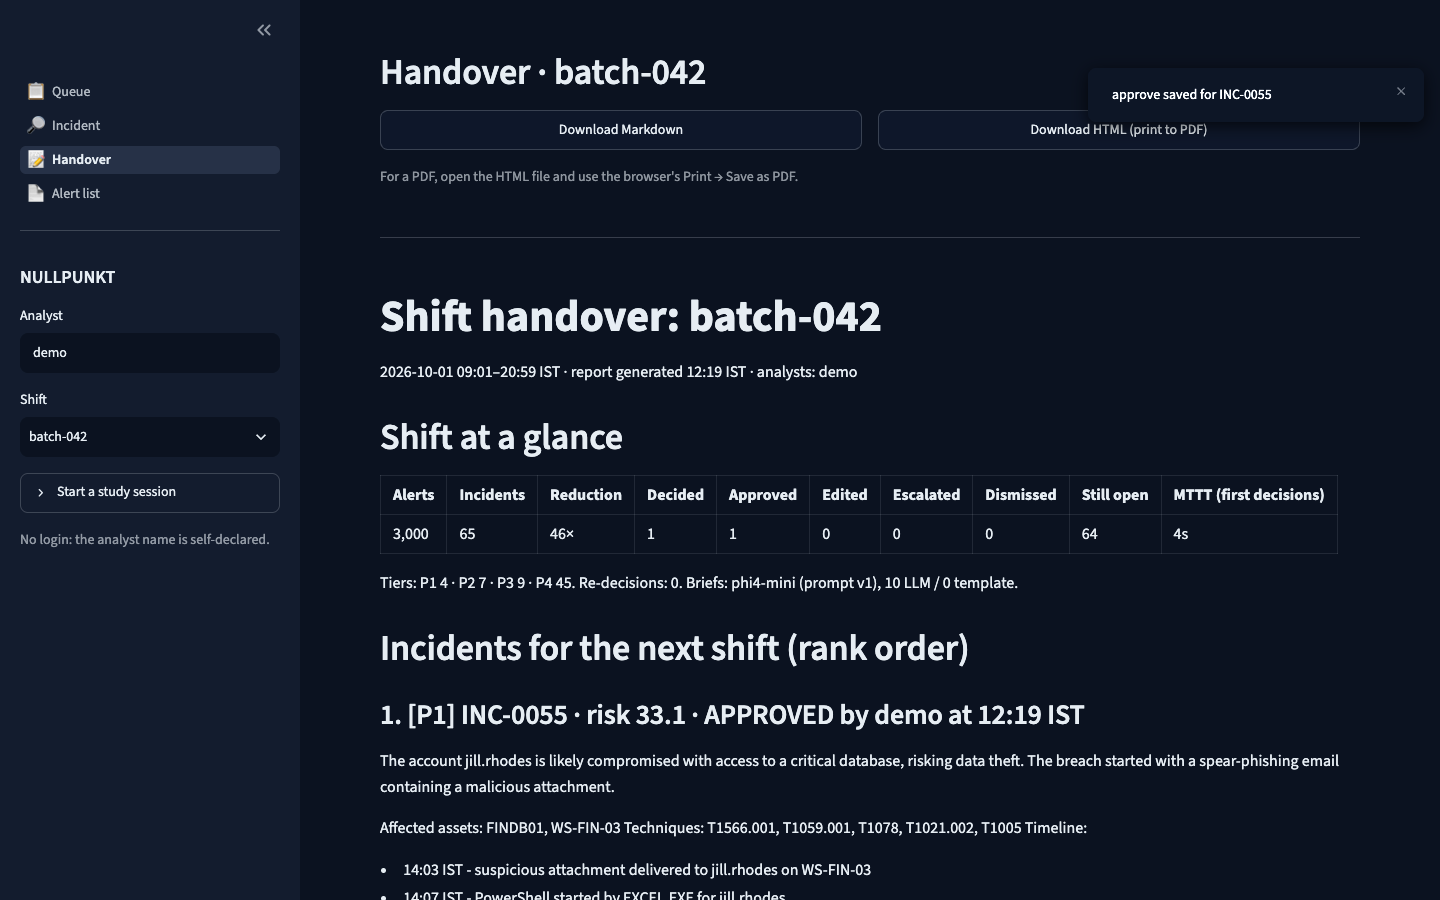
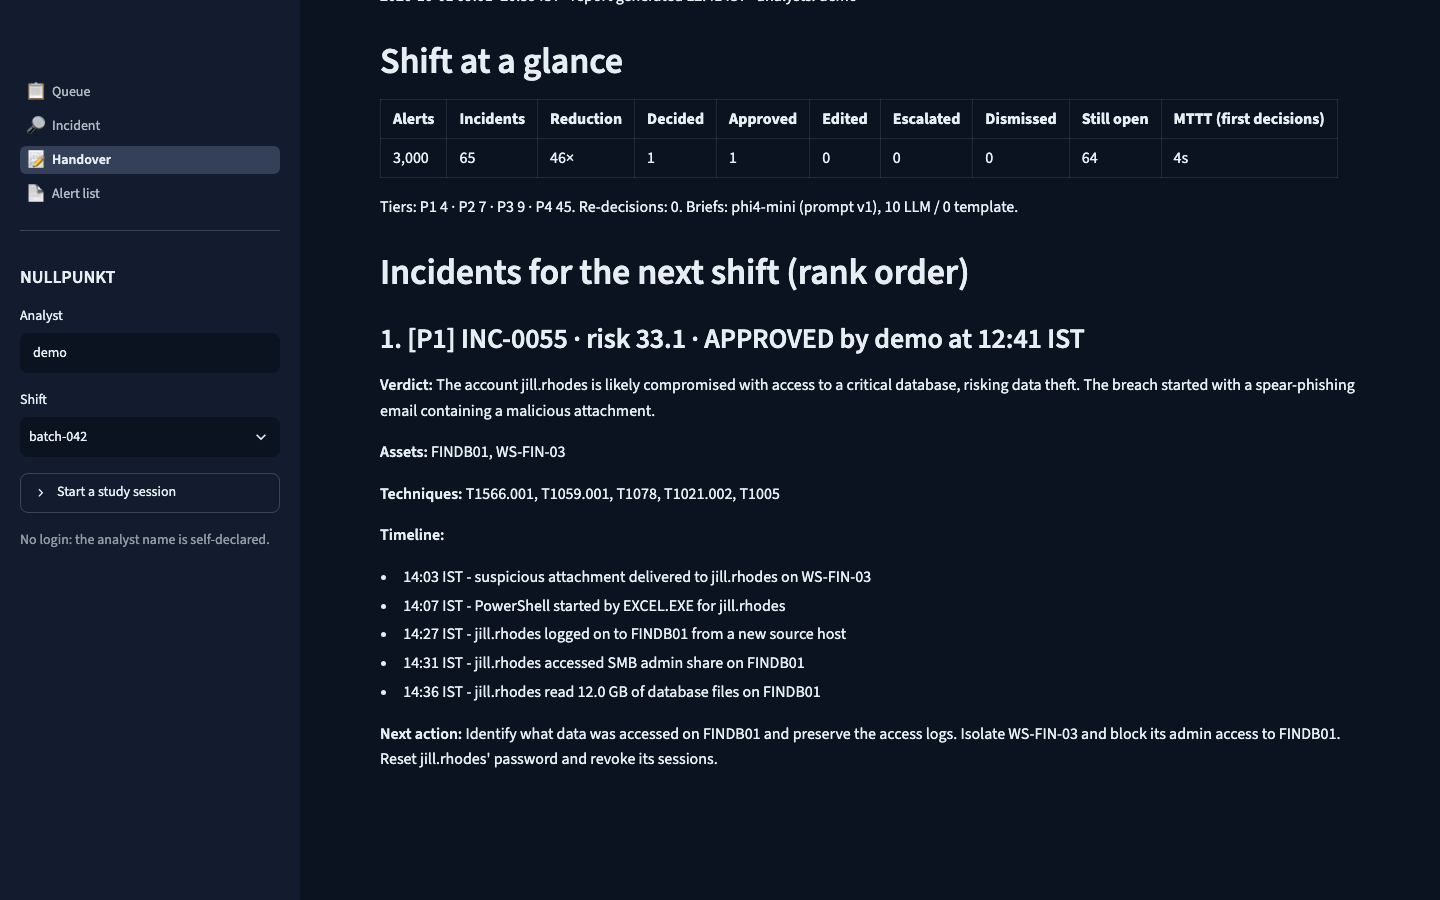
fix(app): readable handover layout and S × C label; docs: screenshots and deployment fixes

diff --git a/src/nullpunkt/app/report.py b/src/nullpunkt/app/report.py
@@ -14,8 +14,8 @@ from datetime import datetime
 from zoneinfo import ZoneInfo
 
 from nullpunkt.app.metrics import ShiftStats, format_duration, latest_decisions, shift_stats
-from nullpunkt.app.views import brief_as_text
-from nullpunkt.core.schema import DecisionAction
+from nullpunkt.app.views import brief_as_markdown
+from nullpunkt.core.schema import Brief, DecisionAction
 from nullpunkt.storage.repository import BatchInfo, DecisionRecord, Repository
 
 REPORTED = (DecisionAction.APPROVE, DecisionAction.EDIT, DecisionAction.ESCALATE)
@@ -35,7 +35,8 @@ class ReportItem:
     incident_id: str
     risk: float
     decision: DecisionRecord
-    brief_text: str
+    brief_text: str  # Markdown when ``brief`` is set, otherwise free text (an edit or the score)
+    brief: Brief | None = None  # the unedited brief, for structured rendering
 
 
 @dataclass(frozen=True)
@@ -60,13 +61,17 @@ def build_handover(repo: Repository, batch_id: str, scope: str | None = None) ->
         if decision is None or decision.action not in REPORTED:
             continue
         view = repo.incident(batch_id, row.incident_id, scope)
+        brief = None
         if decision.action is DecisionAction.EDIT and decision.edited_brief:
             text = decision.edited_brief
         elif view.brief is not None:
-            text = brief_as_text(view.brief.brief)
+            brief = view.brief.brief
+            text = brief_as_markdown(brief)
         else:
             text = view.incident.score.explanation if view.incident.score else ""
-        items.append(ReportItem(row.rank, row.tier, row.incident_id, row.risk, decision, text))
+        items.append(
+            ReportItem(row.rank, row.tier, row.incident_id, row.risk, decision, text, brief)
+        )
     brief_counts = repo.brief_sources(batch_id)
     repo.log("report", "report_exported", batch_id, payload={"items": len(items)})
     return Handover(batch, shift_stats(repo, batch_id, scope), items, repo.now(), brief_counts)
@@ -141,8 +146,18 @@ def to_markdown(h: Handover) -> str:
         lines += [f"### {_heading(h, item)}", ""]
         if item.decision.action is DecisionAction.ESCALATE and item.decision.notes:
             lines += [f"**Escalation note:** {item.decision.notes}", ""]
-        lines += [item.brief_text, ""]
+        lines += [item.brief_text if item.brief else _keep_line_breaks(item.brief_text), ""]
     return "\n".join(lines).rstrip() + "\n"
+
+
+def _keep_line_breaks(text: str) -> str:
+    """Free text (an analyst's edit) as Markdown that keeps its line breaks: Markdown would
+    otherwise join consecutive lines into one paragraph."""
+    lines = text.strip().splitlines()
+    return "\n".join(
+        line.rstrip() + ("  " if line.strip() and nxt.strip() else "")
+        for line, nxt in zip(lines, [*lines[1:], ""], strict=True)
+    )
 
 
 CSS = """
@@ -159,9 +174,23 @@ th { background: #f3f4f6; } .meta { color: #4b5563; }
 .P4 { background: #6b7280; }
 .note { background: #fef3c7; padding: .4rem .6rem; border-left: 4px solid #d97706; }
 pre { white-space: pre-wrap; font-family: inherit; margin: .3rem 0 0; }
+.item p { margin: .35rem 0; } .item ul { margin: .2rem 0 .4rem; }
 .item { break-inside: avoid; }
 @media print { body { margin: 0; max-width: none; } h2 { break-after: avoid; } }
 """
+
+
+def _brief_html(brief: Brief) -> str:
+    e = html.escape
+    summary = "<br>".join(e(line.strip()) for line in brief.summary.strip().splitlines())
+    timeline = "".join(f"<li>{e(entry)}</li>" for entry in brief.timeline)
+    return (
+        f"<p><strong>Verdict:</strong> {summary}</p>"
+        f"<p><strong>Assets:</strong> {e(', '.join(brief.affected_assets))}</p>"
+        f"<p><strong>Techniques:</strong> {e(', '.join(brief.techniques))}</p>"
+        f"<p><strong>Timeline:</strong></p><ul>{timeline}</ul>"
+        f"<p><strong>Next action:</strong> {e(brief.next_action)}</p>"
+    )
 
 
 def to_html(h: Handover) -> str:
@@ -195,6 +224,7 @@ def to_html(h: Handover) -> str:
         )
         if d.action is DecisionAction.ESCALATE and d.notes:
             parts.append(f"<p class='note'><strong>Escalation note:</strong> {e(d.notes)}</p>")
-        parts.append(f"<pre>{e(item.brief_text)}</pre></div>")
+        parts.append(_brief_html(item.brief) if item.brief else f"<pre>{e(item.brief_text)}</pre>")
+        parts.append("</div>")
     parts.append("</body></html>")
     return "".join(parts)

diff --git a/tests/unit/test_storage.py b/tests/unit/test_storage.py
@@ -390,11 +390,41 @@ def test_handover_lists_only_approved_edited_escalated_in_rank_order(repo, clock
     assert "**Escalation note:** IR <lead> & legal" in md
     assert "Analyst rewrite of the brief." in md
     assert q[1] not in md  # dismissed: counted, not listed
-    assert "Affected assets: FINDB01" in md  # final brief text for approved/escalated
+    assert "**Assets:** FINDB01" in md  # final brief text for approved/escalated
     html = to_html(h)
     assert html.startswith("<!doctype html>") and "@media print" in html
     assert "IR &lt;lead&gt; &amp; legal" in html and "<lead>" not in html
     assert [e["event"] for e in repo.audit(B)][-1] == "report_exported"
+
+
+def test_handover_puts_each_brief_field_on_its_own_line(repo, clock):
+    top = repo.queue(B)[0].incident_id
+    repo.open_incident(B, top, "jane")
+    clock.advance(30)
+    repo.record_decision(B, top, "jane", "approve")
+    item = build_handover(repo, B).items[0]
+    brief = item.brief
+    assert brief is not None
+    md = to_markdown(build_handover(repo, B))
+    lines = md.splitlines()
+    for label in ("Verdict", "Assets", "Techniques", "Timeline", "Next action"):
+        starts = [n for n, line in enumerate(lines) if line.startswith(f"**{label}:**")]
+        assert len(starts) == 1, label  # the label starts its own line, once
+        assert lines[starts[0] - 1] == "", label  # a paragraph of its own, not run together
+    timeline = lines.index("**Timeline:**")
+    entries = lines[timeline + 2 : timeline + 2 + len(brief.timeline)]
+    assert entries == [f"- {entry}" for entry in brief.timeline]  # a Markdown list
+    html = to_html(build_handover(repo, B))
+    assert "<p><strong>Assets:</strong> FINDB01" in html and "<ul><li>" in html
+
+
+def test_handover_keeps_line_breaks_of_an_edited_brief(repo, clock):
+    top = repo.queue(B)[0].incident_id
+    repo.open_incident(B, top, "jane")
+    clock.advance(30)
+    repo.record_decision(B, top, "jane", "edit", edited_brief="Line one.\nLine two.\n\nLine four.")
+    md = to_markdown(build_handover(repo, B))
+    assert "Line one.  \nLine two.\n\nLine four." in md  # hard break, then a new paragraph
 
 
 def test_handover_with_no_decisions(repo):

diff --git a/tests/unit/test_app_views.py b/tests/unit/test_app_views.py
@@ -5,6 +5,7 @@ import pytest
 from nullpunkt.app.metrics import format_duration
 from nullpunkt.app.views import (
     TIER_COLOURS,
+    brief_as_markdown,
     brief_as_text,
     evidence_rows,
     risk_bar_fraction,
@@ -83,6 +84,26 @@ def test_brief_as_text():
     assert brief_as_text(brief) == (
         "Line one.\nLine two.\n\nAffected assets: FINDB01\nTechniques: T1005\nTimeline:\n"
         "- 09:00 IST - x\nNext action: Do y."
+    )
+
+
+def test_brief_as_markdown():
+    brief = Brief(
+        summary="Line one.\nLine two.",
+        affected_assets=["FINDB01", "WS-FIN-03"],
+        techniques=["T1005"],
+        timeline=["09:00 IST - x", "09:05 IST - y"],
+        next_action="Do y.",
+        confidence="high",
+        generated_by="llm",
+        validated=True,
+    )
+    assert brief_as_markdown(brief) == (
+        "**Verdict:** Line one.  \nLine two.\n\n"
+        "**Assets:** FINDB01, WS-FIN-03\n\n"
+        "**Techniques:** T1005\n\n"
+        "**Timeline:**\n\n- 09:00 IST - x\n- 09:05 IST - y\n\n"
+        "**Next action:** Do y."
     )
 
 

diff --git a/src/nullpunkt/app/views.py b/src/nullpunkt/app/views.py
@@ -66,6 +66,23 @@ def brief_as_text(brief: Brief) -> str:
     return "\n".join(lines)
 
 
+BRIEF_LABELS = ("Verdict", "Assets", "Techniques", "Timeline", "Next action")
+
+
+def brief_as_markdown(brief: Brief) -> str:
+    """The brief for the handover: each field in its own paragraph with a bold label, the
+    timeline as a list. Markdown joins single newlines, so fields are separated by blank lines."""
+    summary = "  \n".join(line.strip() for line in brief.summary.strip().splitlines())
+    parts = [
+        f"**Verdict:** {summary}",
+        f"**Assets:** {', '.join(brief.affected_assets)}",
+        f"**Techniques:** {', '.join(brief.techniques)}",
+        "**Timeline:**\n\n" + "\n".join(f"- {entry}" for entry in brief.timeline),
+        f"**Next action:** {brief.next_action}",
+    ]
+    return "\n\n".join(parts)
+
+
 def evidence_rows(alerts: list, evidence_ids: set[str], tz: str) -> list[dict]:
     """Evidence alerts in time order; consecutive alerts with the same rule, host and user are
     one row with a count."""

diff --git a/app/pages/incident.py b/app/pages/incident.py
@@ -136,7 +136,15 @@ left, right = st.columns(2)
 with left:
     st.markdown("#### Score")
     s1, s2, s3, s4 = st.columns(4)
-    s1.metric("Severity × criticality", f"{score.severity_weight} × {score.asset_criticality}")
+    s1.metric(
+        "S × C",
+        f"{score.severity_weight} × {score.asset_criticality}",
+        help=(
+            "Severity × criticality: the severity weight of the riskiest alert (1 low – 4 "
+            "critical) times the criticality of the asset it hit (1–5). The risk score uses "
+            "S × C / 20."
+        ),
+    )
     s2.metric("Stage multiplier", f"{score.stage_multiplier:g}")
     s3.metric("Noise penalty", f"{score.noise_penalty:.2f}")
     s4.metric("Risk", f"{score.risk_score:.1f}")

diff --git a/tests/integration/test_prepare_and_app.py b/tests/integration/test_prepare_and_app.py
@@ -135,6 +135,8 @@ def test_opening_an_incident_starts_triage_once(db):
     text = " ".join(m.value for m in at.markdown)
     assert "INC-0055" in text and "np-verdict" in text
     assert "Why these alerts are grouped" in text and "Evidence timeline (IST)" in text
+    sc = at.metric[0]
+    assert sc.label == "S × C" and "Severity × criticality" in sc.proto.help  # short label
     at.run()  # rerun must not start a second timer
     repo = SQLiteRepository(db)
     opened = [e for e in repo.audit(B) if e["event"] == "incident_opened"]

diff --git a/docs/deployment.md b/docs/deployment.md
@@ -105,9 +105,12 @@ the repository automatically.
 ```bash
 az login
 az account show --query "{subscription:name, id:id}" -o table   # should be Azure for Students
-az extension add --name containerapp --upgrade
 az provider register --namespace Microsoft.App --wait
 ```
+
+The `az containerapp` commands are built into current Azure CLI releases (checked with 2.90).
+Only an older CLI that says `containerapp` is not a command needs
+`az extension add --name containerapp --upgrade`.
 
 ## 4. Create the resources
 
@@ -121,35 +124,63 @@ APP=nullpunkt-demo
 IMAGE=ghcr.io/arman0212/nullpunkt:v0.8.0
 ```
 
+**Check the allowed regions before creating anything.** Student subscriptions usually carry an
+"Allowed resource deployment regions" policy:
+
+```bash
+az policy assignment list \
+  --query "[?displayName=='Allowed resource deployment regions'].parameters.listOfAllowedLocations.value" \
+  -o json
+```
+
+Pick an allowed region that also offers Container Apps (`az provider show --namespace
+Microsoft.App --query "resourceTypes[?resourceType=='managedEnvironments'].locations"`). For our
+Azure for Students subscription, the allowed list was `centralindia`, `indiasouthcentral`,
+`malaysiawest`, `koreacentral` and `uaenorth`. `centralindia` supports Container Apps and is the
+closest to India, so it's the default above. A region outside the list fails with
+`RequestDisallowedByPolicy`.
+
+Create the resource group and the environment:
+
 ```bash
 az group create --name $RG --location $LOC
 
 az containerapp env create \
   --name $ENV --resource-group $RG --location $LOC \
   --logs-destination none
+```
+
+Create the app **with the passcode gate on from the start** (step 5 explains it), so the public
+URL never exists without it. `read -s` keeps the passcode out of the screen and the shell
+history; the history only records the literal `$DEMO_PASS`:
+
+```bash
+read -s "DEMO_PASS?Passcode: " && echo    # zsh; in bash: read -s -p "Passcode: " DEMO_PASS && echo
 
 az containerapp create \
   --name $APP --resource-group $RG --environment $ENV \
   --image $IMAGE \
   --ingress external --target-port 8501 \
   --cpu 0.5 --memory 1.0Gi \
-  --min-replicas 0 --max-replicas 1
+  --min-replicas 0 --max-replicas 1 \
+  --secrets "demo-passcode=$DEMO_PASS" \
+  --env-vars DEMO_PASSCODE=secretref:demo-passcode \
+  --query properties.configuration.ingress.fqdn -o tsv
+
+unset DEMO_PASS
 ```
 
-The last command prints the app's URL. To see it again:
+To deploy without the gate, leave out `--secrets` and `--env-vars`.
+
+The command prints the app's hostname. To see it again:
 
 ```bash
 echo "https://$(az containerapp show --name $APP --resource-group $RG \
   --query properties.configuration.ingress.fqdn -o tsv)"
 ```
 
-**If a command fails with `RequestDisallowedByPolicy` or a region error,** Student subscriptions
-allow only some regions. List the allowed ones in the portal (**Policy → Assignments → Allowed
-resource deployment regions**), or try `eastus`, `westeurope` or `southeastasia`, then re-run
-from `az group create`.
-
-**The first request after idle takes about 15–30 s** while a replica starts. Pages load normally
-after that.
+**The first request after idle takes a while** while a replica starts; see
+[Operate it](#6-operate-it) for the measured time. Pages load normally after that.
 
 ## 5. Optional passcode
 
@@ -160,22 +191,30 @@ that browser session. It keeps casual visitors away from a public URL.
 - The data is synthetic, and a restart resets it.
 - Without the variable, the app behaves exactly as it does locally, including study mode.
 
-Store the passcode as a Container Apps secret, not a plain environment variable:
+The passcode is stored as a Container Apps secret, not a plain environment variable. Step 4 sets
+it at creation. To add it to an app created without it:
 
 ```bash
+read -s "DEMO_PASS?Passcode: " && echo    # zsh; in bash: read -s -p "Passcode: " DEMO_PASS && echo
 az containerapp secret set --name $APP --resource-group $RG \
-  --secrets demo-passcode='choose-a-passcode'
+  --secrets "demo-passcode=$DEMO_PASS"
+unset DEMO_PASS
 az containerapp update --name $APP --resource-group $RG \
   --set-env-vars DEMO_PASSCODE=secretref:demo-passcode
 ```
 
-- **To change the passcode:** run `secret set` again, then restart the revision (step 6).
+- **To change the passcode:** run the `read -s` and `secret set` lines again, then restart the
+  revision (step 6).
 - **To remove the gate:**
   ```bash
   az containerapp update --name $APP --resource-group $RG --remove-env-vars DEMO_PASSCODE
   ```
 
 ## 6. Operate it
+
+**Scale-to-zero.** With no requests, the replica stopped after about 6 minutes (348 s measured
+in centralindia). An open browser tab keeps its websocket connected, which also counts as
+activity.
 
 **Before a demo: keep one replica warm** so there's no cold start. Remember to undo it afterwards.
 

diff --git a/docs/analyst_app.md b/docs/analyst_app.md
@@ -77,6 +77,10 @@ nobody has to reset it by hand.
 
 - The shift stats, then only approved, edited and escalated incidents in rank order, with their
   final brief text: the analyst's edit where there is one, and the escalation note.
+- An unedited brief is printed one field per line, each with a bold label:
+  **Verdict:**, **Assets:**, **Techniques:**, **Timeline:** (a list) and **Next action:**. The
+  same layout is used in the page, the Markdown and the HTML.
+- An edited brief is the analyst's own text, printed with its line breaks kept.
 - Downloads: Markdown, and HTML with print CSS. There's no PDF dependency; use the browser's
   Print → Save as PDF.
 
